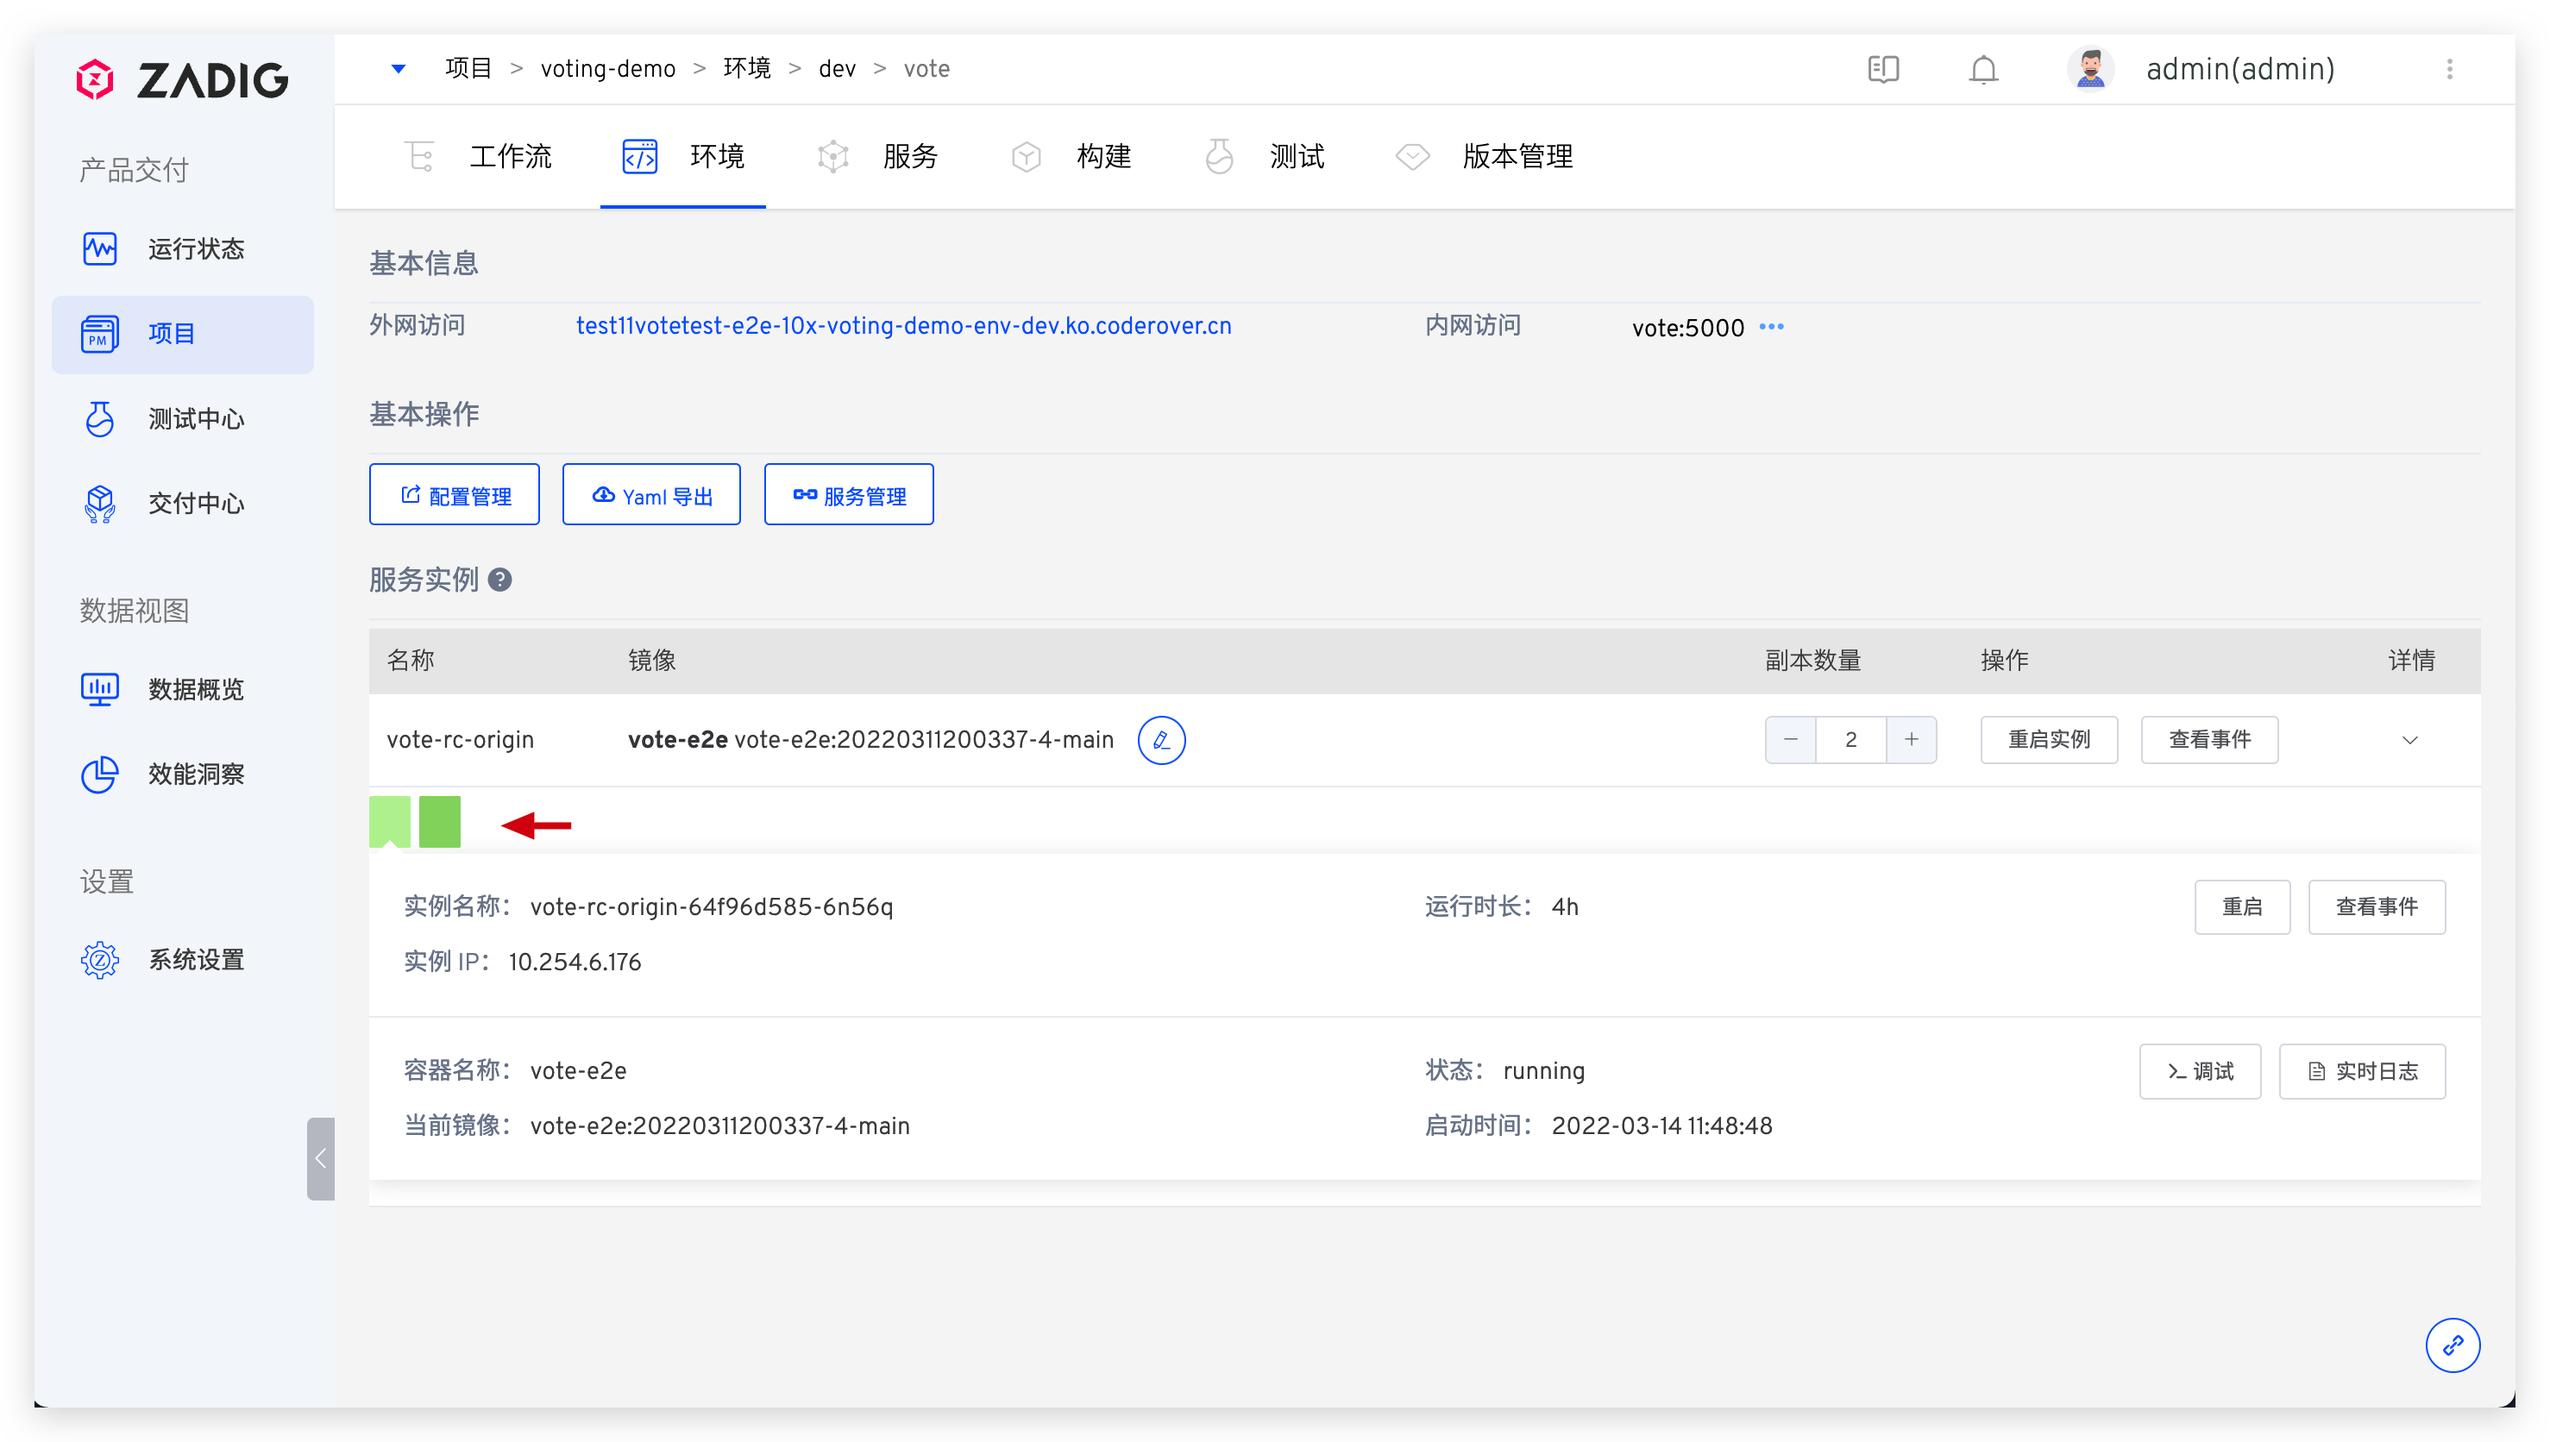
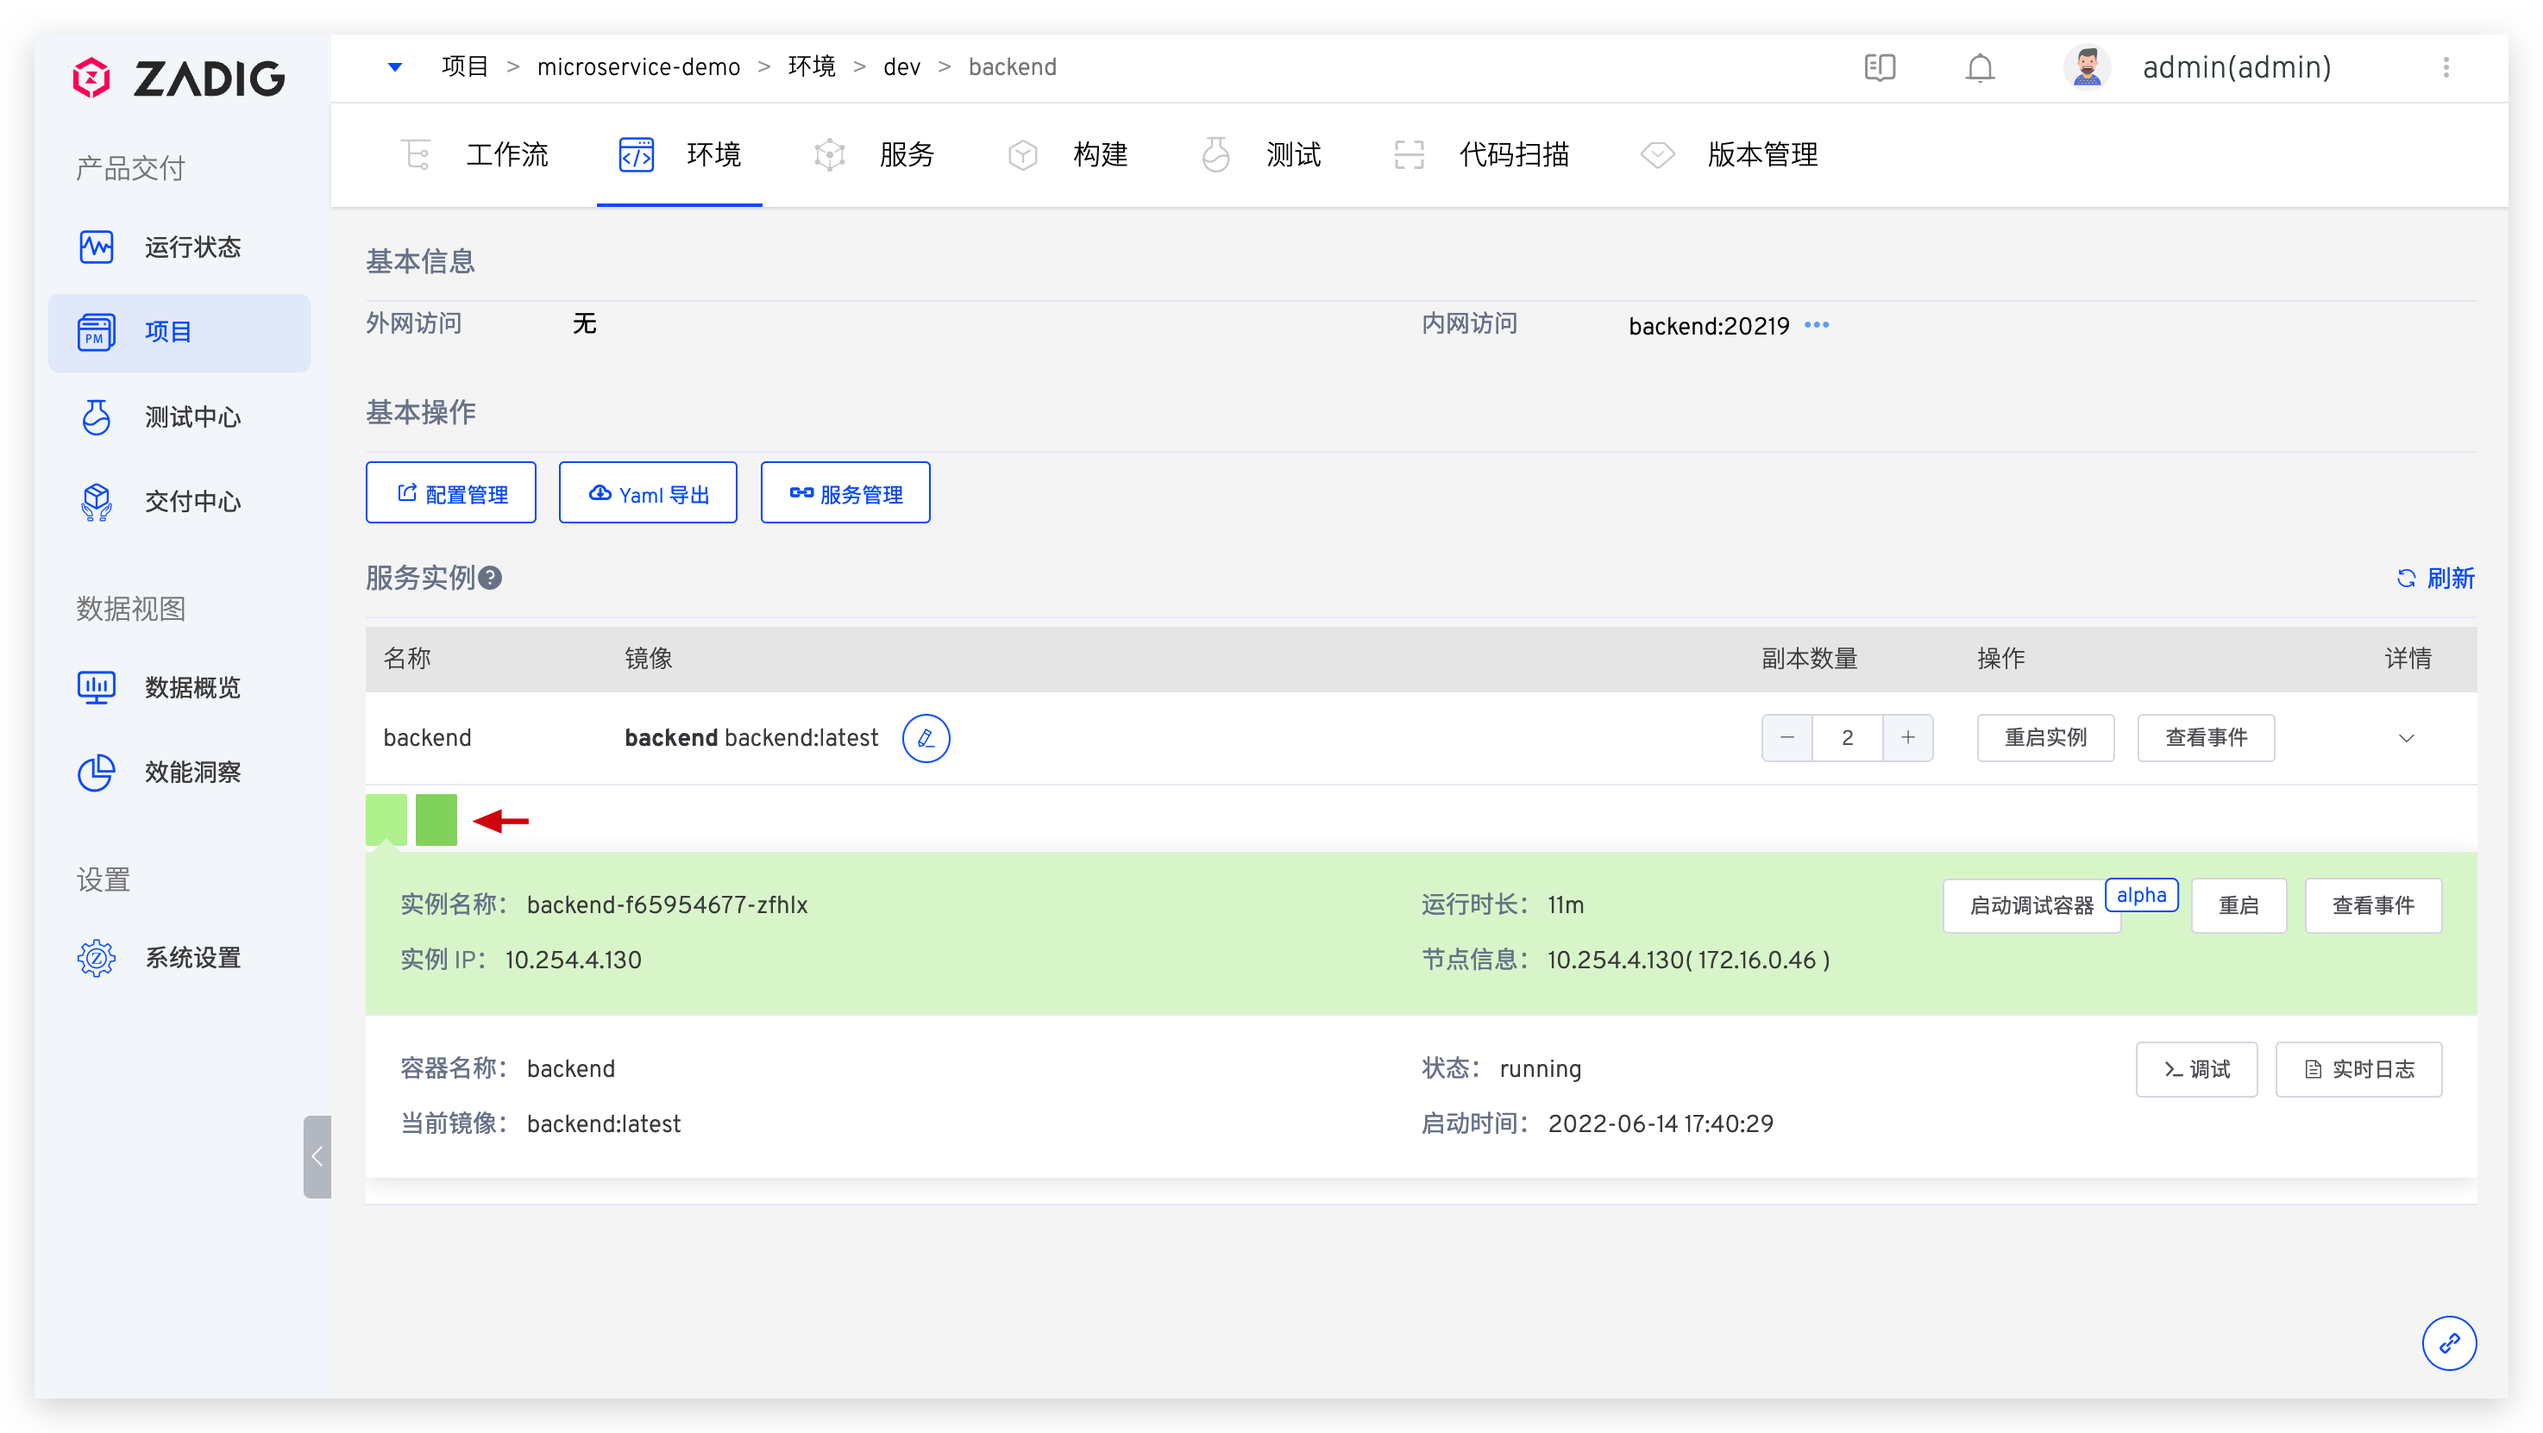
add zadig-debug description

diff --git a/dev/04.项目/03.环境/05.service.md b/dev/04.项目/03.环境/05.service.md
@@ -6,7 +6,7 @@ permalink: /dev/project/env/service/
 
 本文主要介绍基础设施使用 Kubernetes 的项目中（即：K8s YAML 项目/K8s Helm Chart 项目/K8s 托管项目)，环境里的服务相关操作。
 
-在服务列表中点击服务名即可进入服务详情页面。服务详情页面展示了服务的详细信息，用户可以对服务进行服务重启、服务伸缩、配置管理、更新镜像等操作。
+在服务列表中点击服务名即可进入服务详情页面。服务详情页面展示了服务的详细信息，用户可以对服务进行服务重启、调试、服务伸缩、配置管理、更新镜像等操作。
 
 ![服务详情](../_images/service_detail.png)
 	
@@ -29,7 +29,7 @@ permalink: /dev/project/env/service/
 - `查看事件`：查看 Pod Event
 - `副本数量`：动态调整服务的副本数量
 
-## 服务实例详情
+### 服务实例详情
 
 服务实例详情列表显示了容器服务所有的实例，切换实例后可查看每个服务实例（Pod）下的容器（Container）详细信息。
 
@@ -37,8 +37,31 @@ permalink: /dev/project/env/service/
 
 用户可对单个服务实例进行操作：
 
-- `重启实例`：重启单个实例
-- `实时日志`：查看当前服务实例的实时日志
-![服务实例](../_images/show_k8s_service_log.png)
+- `重启`：重启选中的实例
 - `查看事件`：查看当前服务实例 Pod Event 事件
 ![服务实例](../_images/show_pod_event.png)
+- `实时日志`：查看当前服务实例的实时日志
+![服务实例](../_images/show_k8s_service_log.png)
+- `调试`：登录到服务实例 Pod 中，可在 Pod 中进行 debug 调试
+![服务实例](../_images/exec_to_pod.png)
+- `启动调试容器`<sup style='color: blue'>alpha</sup>：启动调试容器，可登录到调试容器中对服务进行 debug 调试，细节参考[启动调试容器](#启动调试容器)
+![启动调试容器](../_images/zadig_debug_1.png)
+
+### 启动调试容器 <sup style='color: blue'>alpha</sup>
+
+::: tip
+该功能和被调试服务所在集群的配置有关，说明如下：
+
+1. 集群版本在 v1.16 以下时，该功能不可使用
+2. 集群版本在 v1.16~v1.22 时，需调整集群系统组件配置，使用 feature-gates 设置 EphemeralContainers=true
+3. 集群版本在 v1.23 及以上时，无需额外操作即可使用该功能
+:::
+
+启动调试容器，可使用系统内置镜像，也可根据实际需求输入自定义镜像。
+> 内置镜像中提供 `curl`/`wget`/`iputils-ping`/`telnet`/`dnsutils`/`tcpdump`/`net-tools`/`procps`/`sysstat` 工具可直接使用。
+
+![启动调试容器](../_images/zadig_debug_2.png)
+
+待调试容器 `zadig-debug` 正常启动后，点击`调试`登录进容器，可使用该容器中的工具对服务做 debug 调试。
+
+![启动调试容器](../_images/zadig_debug_3.png)
